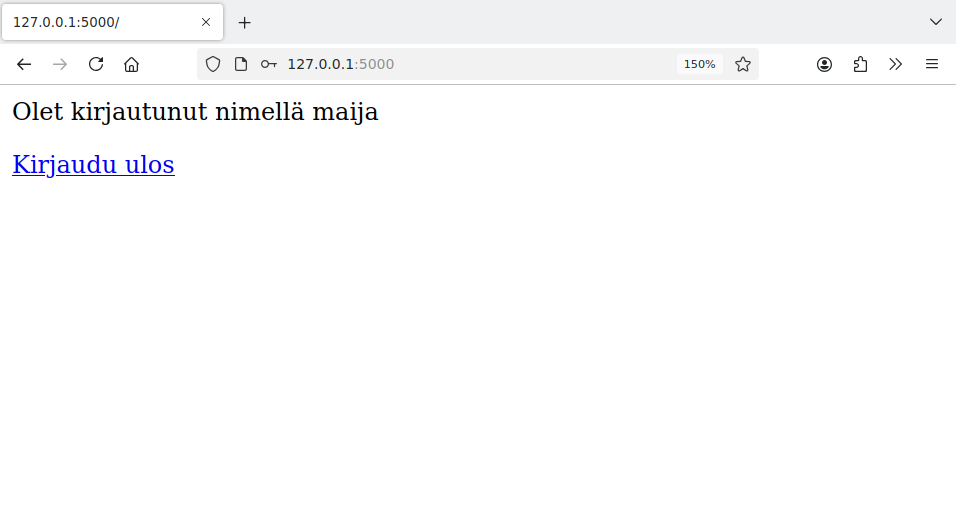
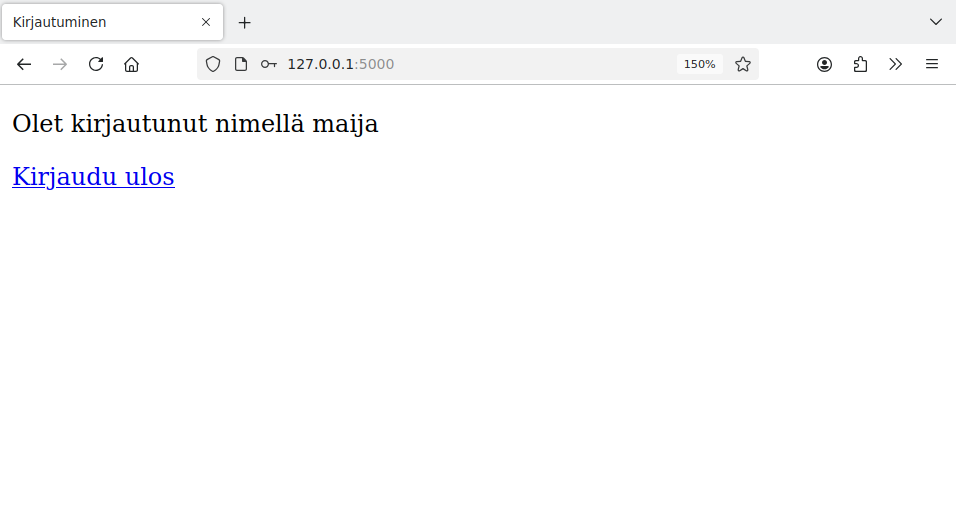
Paranna osaa 3

Changed region(s): [[0.0, 0.2059, 0.3944, 0.2647], [0.0, 0.2941, 0.182, 0.3824], [0.0, 0.0294, 0.1213, 0.0588]]

diff --git a/_material/03.md b/_material/03.md
@@ -20,7 +20,7 @@ img {
 
 # 3. Käyttäjän tunnistaminen
 
-Monissa web-sovelluksissa on tarvetta tunnistaa sovelluksen käyttäjä. Tavallinen ratkaisu on, että käyttäjä pääsee käyttämään tiettyjä sovelluksen toimintoja, kun hän kirjautuu sisään antamalla tunnuksen ja salasanan.
+Monissa web-sovelluksissa on tarvetta tunnistaa sovelluksen käyttäjä. Tavallinen ratkaisu on, että käyttäjä pääsee käyttämään tiettyjä sovelluksen toimintoja kirjauduttuaan ensin sisään antamalla tunnuksen ja salasanan.
 
 Tutustumme tässä osassa käyttäjien rekisteröinnin ja kirjautumisen toteuttamiseen.
 
@@ -38,7 +38,17 @@ CREATE TABLE users (
 
 Sarake `username` sisältää käyttäjän tunnuksen. Sarakkeessa on lisäehto `UNIQUE`, mikä tarkoittaa, että kahdella käyttäjällä ei voi olla samaa tunnusta.
 
-Sarake `password_hash` sisältää salasanan hash-arvon. Salasanojen tallentamineen sellaisenaan tietokantaan ei olisi hyvä ratkaisu. Tällöin jos joku pääsisi käsiksi tietokannan sisältöön, hän saisi heti selville käyttäjien salasanat. Parempi ratkaisu on tallentaa salasanat tietokantaan hash-muodossa niin, että tietokannan sisällöstä ei ole helppoa selvittää salasanoja.
+Sarake `password_hash` sisältää salasanan hash-arvon. Salasanojen tallentamineen sellaisenaan tietokantaan ei olisi hyvä ratkaisu, koska jos joku pääsisi käsiksi tietokannan sisältöön, hän saisi heti selville käyttäjien salasanat. Parempi ratkaisu on tallentaa salasanat tietokantaan hash-muodossa.
+
+{: .note-title }
+Salasanan hash-arvo
+<div class="note" markdown="1">
+
+Salasanan hash-arvo on salasanan perusteella muodostettava merkkijono. Hyvin valitulla algoritmilla muodostetusta hash-arvosta ei voi helposti selvittää alkuperäistä salasanaa, mutta vertaamalla kahden salasanan hash-arvoja voi selvittää, ovatko salasanat samat.
+
+Vaikka salasanasta olisi tiedossa vain hash-arvo, alkuperäisen salasanan palauttaminen on helppoa, jos salasana on lyhyt. Tällöin voidaan käydä läpi kaikki mahdolliset lyhyet salasanat, laskea niiden hash-arvot ja verrata niitä tiedossa olevaan hash-arvoon.
+
+</div>
 
 Seuraavassa sovelluksessa käyttäjä pystyy luomaan sovellukseen tunnuksen, joka tallennetaan tietokantaan:
 
@@ -77,16 +87,32 @@ def create():
 {: .code-title }
 register.html
 ```jinja
-<form action="/create" method="post">
-<p> Tunnus: <br>
-<input type="text" name="username">
-<p> Salasana: <br>
-<input type="password" name="password1">
-<p> Salasana uudestaan: <br>
-<input type="password" name="password2">
-<p>
-<input type="submit" value="Luo tunnus">
-</form>
+<!DOCTYPE html>
+<html>
+
+<head>
+  <title>Rekisteröinti</title>
+</head>
+
+<body>
+  <form action="/create" method="post">
+    <p>
+      Tunnus: <br />
+      <input type="text" name="username">
+    </p>
+    <p>
+      Salasana: <br />
+      <input type="password" name="password1">
+    </p>
+    <p>
+      Salasana uudestaan: <br />
+      <input type="password" name="password2">
+    </p>
+    <input type="submit" value="Luo tunnus">
+  </form>
+</body>
+
+</html>
 ```
 
 Tunnuksen luonti voi näyttää seuraavalta:
@@ -144,7 +170,7 @@ config.py
 secret_key = "18fd24bf6a2ad4dac04a33963db1c42f"
 ```
 
-Yllä olevassa tiedostossa oleva avain on esimerkki, eikä sinun ei tule käyttää tätä avainta omassa sovelluksessasi vaan luoda oma salainen avain. Oman salaisen avaimen voi luoda vaikkapa Python-tulkin avulla. Esimerkiksi moduulin `secrets` funktio `token_hex` antaa halutun määrän satunnaisia tavuja:
+Yllä olevassa tiedostossa oleva avain on esimerkki, eikä sinun tule käyttää tätä avainta omassa sovelluksessasi vaan luoda oma salainen avain. Oman salaisen avaimen voi luoda vaikkapa Python-tulkin avulla. Esimerkiksi moduulin `secrets` funktio `token_hex` antaa halutun määrän satunnaisia tavuja:
 
 ```console?lang=python&prompt=>>>
 $ python3
@@ -209,18 +235,37 @@ Sovellus käyttää seuraavaa sivupohjaa, joka joko näyttää kirjautumislomakk
 {: .code-title }
 index.html
 ```jinja
-{% raw %}{% if session.username %}
-<p>Olet kirjautunut nimellä {{ session.username }}</p>
-<a href="/logout">Kirjaudu ulos</a>
-{% else %}
-<form action="/login" method="POST">
-<p>Tunnus:<br>
-<input type="text" name="username"></p>
-<p>Salasana:<br>
-<input type="password" name="password"></p>
-<input type="submit" value="Kirjaudu">
-</form>
-{% endif %}{% endraw %}
+<!DOCTYPE html>
+<html>
+
+<head>
+  <title>Kirjautuminen</title>
+</head>
+
+{% raw %}<body>
+  {% if session.username %}
+  <p>
+    Olet kirjautunut nimellä {{ session.username }}
+  </p>
+  <p>
+    <a href="/logout">Kirjaudu ulos</a>
+  </p>
+  {% else %}
+  <form action="/login" method="post">
+    <p>
+      Tunnus: <br />
+      <input type="text" name="username">
+    </p>
+    <p>
+      Salasana: <br />
+      <input type="password" name="password">
+    </p>
+    <input type="submit" value="Kirjaudu">
+  </form>
+  {% endif %}
+</body>{% endraw %}
+
+</html>
 ```
 
 Kun käyttäjä syöttää lomakkeeseen tunnuksen ja salasanan, koodi hakee tietokannasta tunnusta vastaavan salasanan hash-arvon. Tämän jälkeen koodi tarkastaa funktiolla `check_password_hash`, onko salasana oikea. Tämän jälkeen asetetaan istuntoon muuttuja `username`, joka kertoo käyttäjän tunnuksen.
